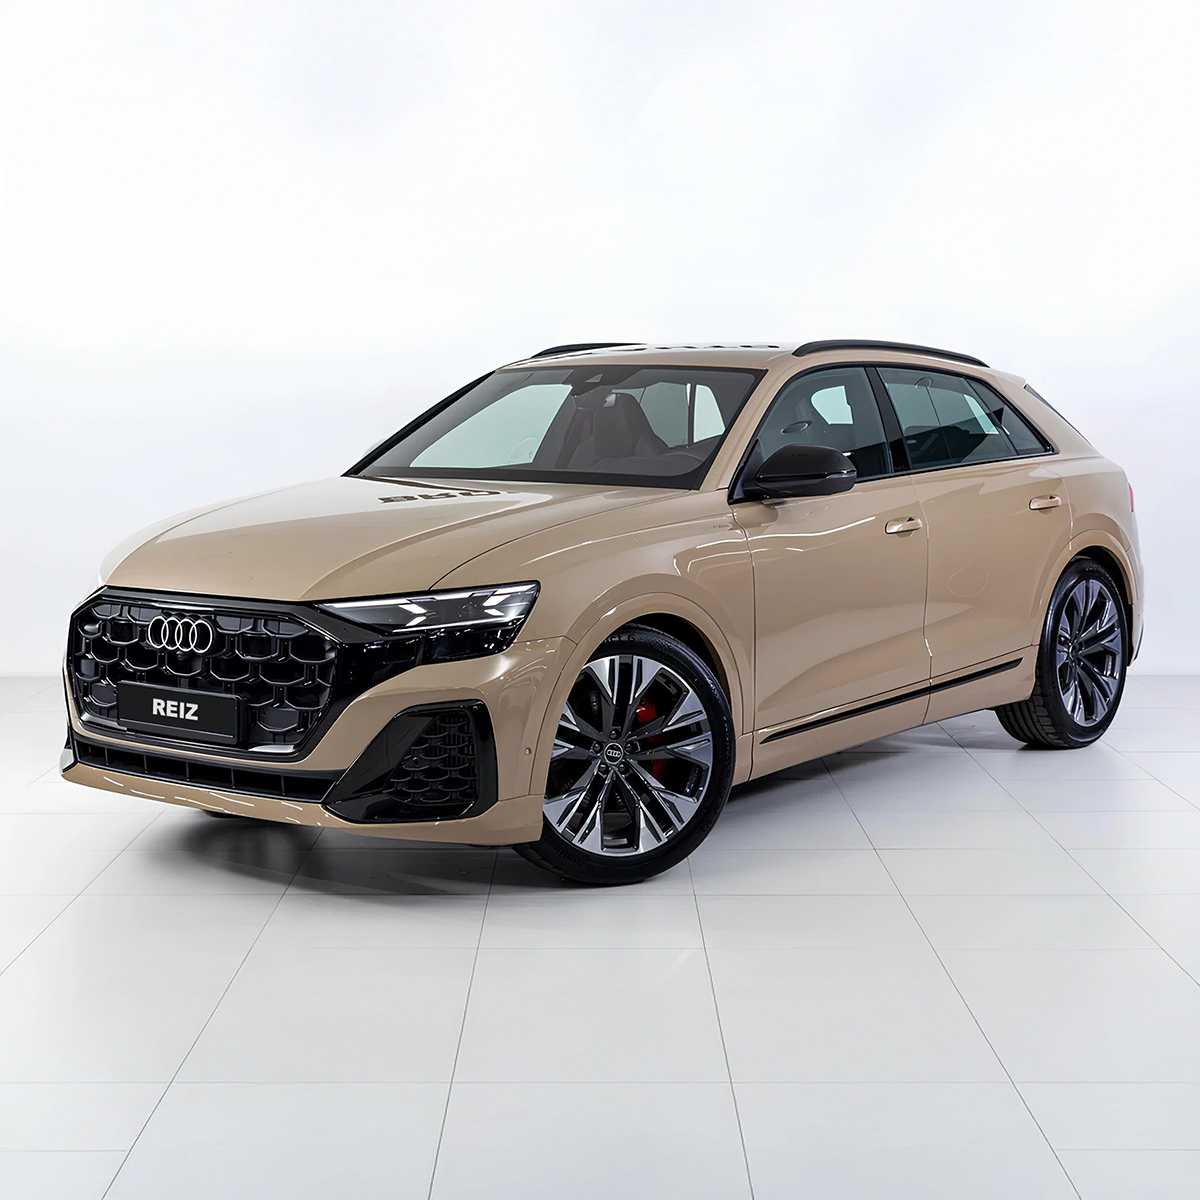
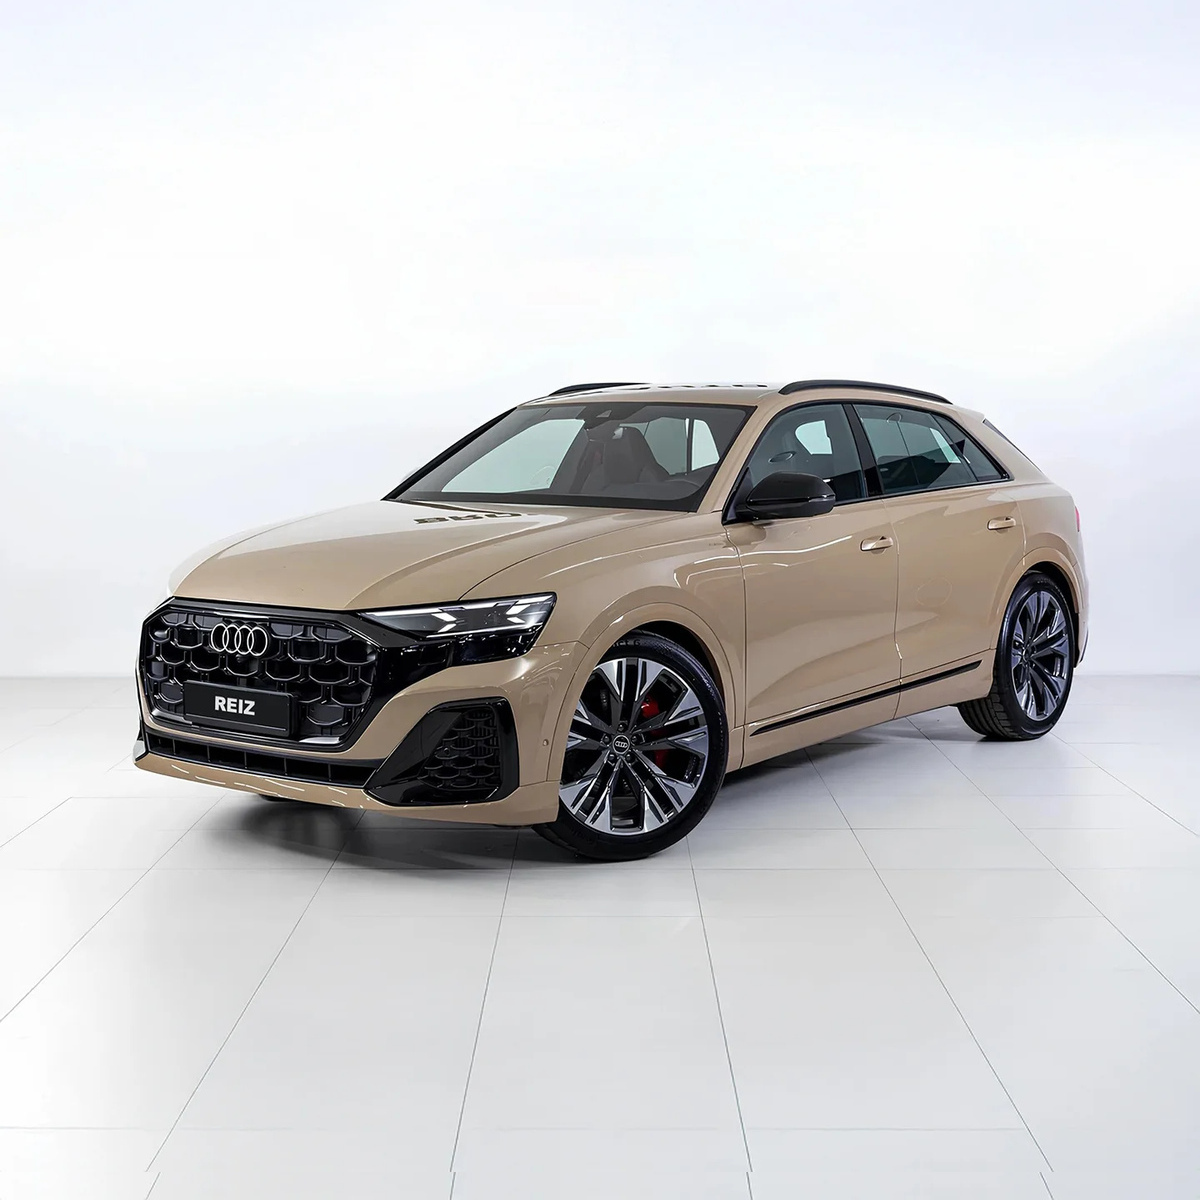
Update home hero and SEO assets

diff --git a/front/src/middleware.ts b/front/src/middleware.ts
@@ -10,20 +10,47 @@ const getLocaleFromPath = (pathname: string): Locale => {
   return isLocale(seg ?? "") ? (seg as Locale) : defaultLocale;
 };
 
+const setLocaleCookie = (response: NextResponse, locale: Locale) => {
+  response.cookies.set(LOCALE_COOKIE, locale, {
+    path: "/",
+    maxAge: 31536000,
+    sameSite: "lax",
+  });
+};
+
+const isLegacyLvivRentalPath = (pathname: string) => {
+  const segments = pathname.split("/").filter(Boolean);
+
+  if (segments.length === 2) {
+    return segments[0] === "rental" && segments[1] === "lviv";
+  }
+
+  if (segments.length === 3 && isLocale(segments[0])) {
+    return segments[1] === "rental" && segments[2] === "lviv";
+  }
+
+  return false;
+};
+
 export default function middleware(request: NextRequest) {
   const pathname = request.nextUrl.pathname;
   const pathLocale = getLocaleFromPath(pathname);
   const cookieLocale = request.cookies.get(LOCALE_COOKIE)?.value;
 
+  if (isLegacyLvivRentalPath(pathname)) {
+    const redirectUrl = request.nextUrl.clone();
+    redirectUrl.pathname = pathLocale === defaultLocale ? "/" : `/${pathLocale}`;
+
+    const response = NextResponse.redirect(redirectUrl, 301);
+    setLocaleCookie(response, pathLocale);
+    return response;
+  }
+
   const response = intlMiddleware(request);
 
   // URL locale takes priority — update cookie to match
   if (pathLocale !== cookieLocale) {
-    response.cookies.set(LOCALE_COOKIE, pathLocale, {
-      path: "/",
-      maxAge: 31536000,
-      sameSite: "lax",
-    });
+    setLocaleCookie(response, pathLocale);
   }
 
   return response;

diff --git a/front/src/app/[locale]/components/HeroSection.tsx b/front/src/app/[locale]/components/HeroSection.tsx
@@ -13,6 +13,7 @@ import ScrollToCatalogButton from "./ScrollToCatalogButton";
 export default async function HeroSection() {
   const t = await getTranslations("homePage.hero");
   const footerT = await getTranslations("footer");
+  const heroImageAlt = `${t("title")} | REIZ`;
 
   return (
     <section className="hero-section">
@@ -22,20 +23,26 @@ export default async function HeroSection() {
             <li className="swiper-slide">
               {/* Mobile hero image - LCP critical */}
               <UiImage
-                src="/img/cars/home%20page2.1.webp"
-                alt={t("hero_image_alt")}
-                width={1500}
-                height={2250}
+                src="/img/cars/20260410-audi%20q8.webp"
+                alt={heroImageAlt}
+                width={1440}
+                height={1440}
                 hero
                 quality={75}
                 sizes="100vw"
                 className="hero-image-mobile"
                 fetchPriority="high"
+                style={{
+                  objectPosition: "8% center",
+                  height: "100%",
+                  transform: "translateY(-6%) scale(1.1)",
+                  transformOrigin: "center center",
+                }}
               />
               {/* Desktop hero image - LCP critical */}
               <UiImage
                 src="/img/hero/reiz-4-1-desktop.webp"
-                alt={t("hero_image_alt")}
+                alt={heroImageAlt}
                 width={2400}
                 height={1578}
                 hero

diff --git a/front/src/components/Header.tsx b/front/src/components/Header.tsx
@@ -45,8 +45,10 @@ export default function Header({
 
   useThemeColorOnOpen(mobileMenuOpen);
 
+  const normalizeHref = (href: string) => href.split("#")[0]?.split("?")[0] || "/";
+
   const isActive = (href: string) =>
-    stripLocale(pathname) === stripLocale(href);
+    stripLocale(pathname) === stripLocale(normalizeHref(href));
 
   const setMenuOpen = useCallback((open: boolean) => {
     setMobileMenuOpen(open);
@@ -162,7 +164,7 @@ export default function Header({
       label: asideT("cars_title"),
       subLinks: [
         { href: "/rental/kyiv", label: asideT("cars_link1"), scrollToCatalog: true },
-        { href: "/rental/lviv", label: asideT("cars_link2"), scrollToCatalog: true },
+        { href: "/#catalog", label: asideT("cars_link2"), scrollToCatalog: true },
         { href: "/rental/odesa", label: asideT("cars_link4"), scrollToCatalog: true },
         { href: "/rental/kharkiv", label: asideT("cars_link6"), scrollToCatalog: true },
         { href: "/rental/dnipro", label: asideT("cars_link5"), scrollToCatalog: true },

diff --git a/front/src/app/[locale]/(site)/components/SidebarNav.tsx b/front/src/app/[locale]/(site)/components/SidebarNav.tsx
@@ -18,8 +18,10 @@ export default function SidebarNav() {
     "managerWillContactYouModal",
   );
 
+  const normalizeHref = (href: string) => href.split("#")[0]?.split("?")[0] || "/";
+
   const isActive = (href: string) =>
-    stripLocale(pathname) === stripLocale(href);
+    stripLocale(pathname) === stripLocale(normalizeHref(href));
 
   const navLinks = [
     { href: "/", label: t("nav.home") },
@@ -27,7 +29,7 @@ export default function SidebarNav() {
       label: t("nav.cars_title"),
       subLinks: [
         { href: "/rental/kyiv", label: t("nav.cars_link1"), scrollToCatalog: true },
-        { href: "/rental/lviv", label: t("nav.cars_link2"), scrollToCatalog: true },
+        { href: "/#catalog", label: t("nav.cars_link2"), scrollToCatalog: true },
         { href: "/rental/odesa", label: t("nav.cars_link4"), scrollToCatalog: true },
         { href: "/rental/dnipro", label: t("nav.cars_link5"), scrollToCatalog: true },
         { href: "/rental/kharkiv", label: t("nav.cars_link6"), scrollToCatalog: true },

diff --git a/front/src/app/layout.tsx b/front/src/app/layout.tsx
@@ -184,6 +184,10 @@ export default async function RootLayout({
             __html: localeHistoryGuardInlineScript,
           }}
         />
+        <link
+          rel="image_src"
+          href={`${SITE_ORIGIN}/img/og/home-square.jpg`}
+        />
         {/* Preload LCP hero images - CRITICAL for performance */}
         {/* Desktop hero - matches current LCP image */}
         <link
@@ -198,7 +202,7 @@ export default async function RootLayout({
         <link
           rel="preload"
           as="image"
-          href="/img/cars/home%20page2.1.webp"
+          href="/img/cars/20260410-audi%20q8.webp"
           type="image/webp"
           media="(max-width: 1024px)"
           fetchPriority="high"

diff --git a/front/src/app/sitemap.ts b/front/src/app/sitemap.ts
@@ -35,7 +35,7 @@ export default async function sitemap(): Promise<MetadataRoute.Sitemap> {
   });
 
   // City rental pages
-  const citySlugs = getAllCitySlugs();
+  const citySlugs = getAllCitySlugs().filter((citySlug) => citySlug !== "lviv");
   for (const citySlug of citySlugs) {
     const languages = buildHreflangMap(`/rental/${citySlug}`, abs);
 

diff --git a/front/src/app/[locale]/rental/[city]/page.tsx b/front/src/app/[locale]/rental/[city]/page.tsx
@@ -50,7 +50,7 @@ export async function generateStaticParams(): Promise<PageParams[]> {
   const params: PageParams[] = [];
 
   for (const locale of locales) {
-    for (const slug of getAllCitySlugs()) {
+    for (const slug of getAllCitySlugs().filter((citySlug) => citySlug !== "lviv")) {
       params.push({ locale, city: slug });
     }
   }

diff --git a/front/src/app/scss/blocks/sections/_hero-section.scss b/front/src/app/scss/blocks/sections/_hero-section.scss
@@ -116,6 +116,7 @@
             display: flex;
             height: 100%;
             position: relative;
+            overflow: hidden;
 
             img,
             picture {
